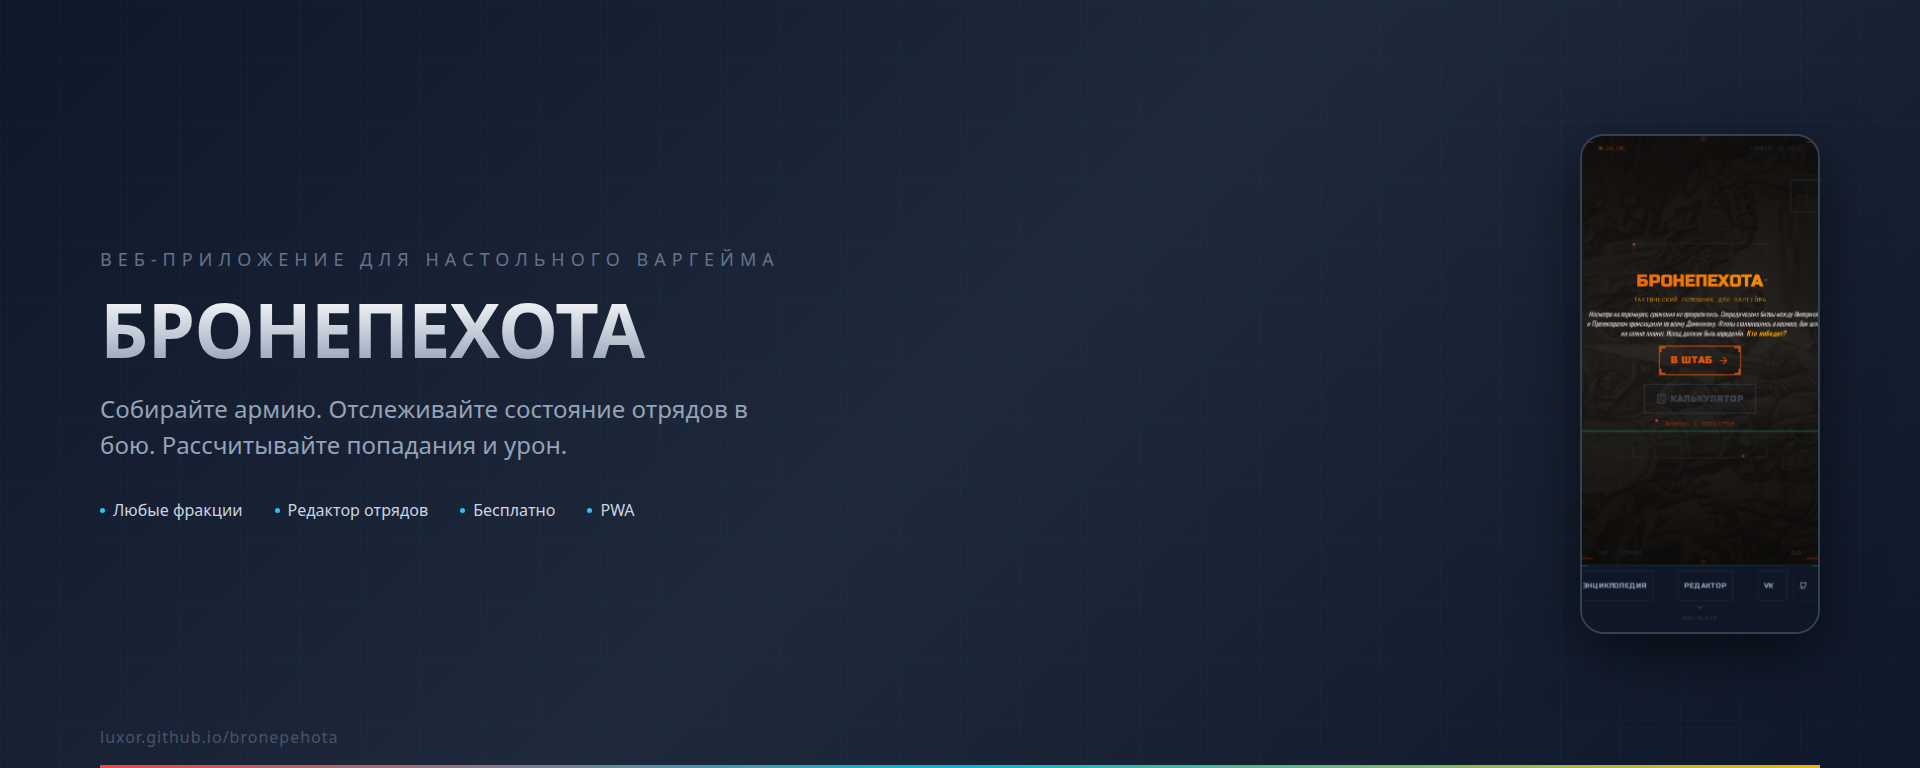
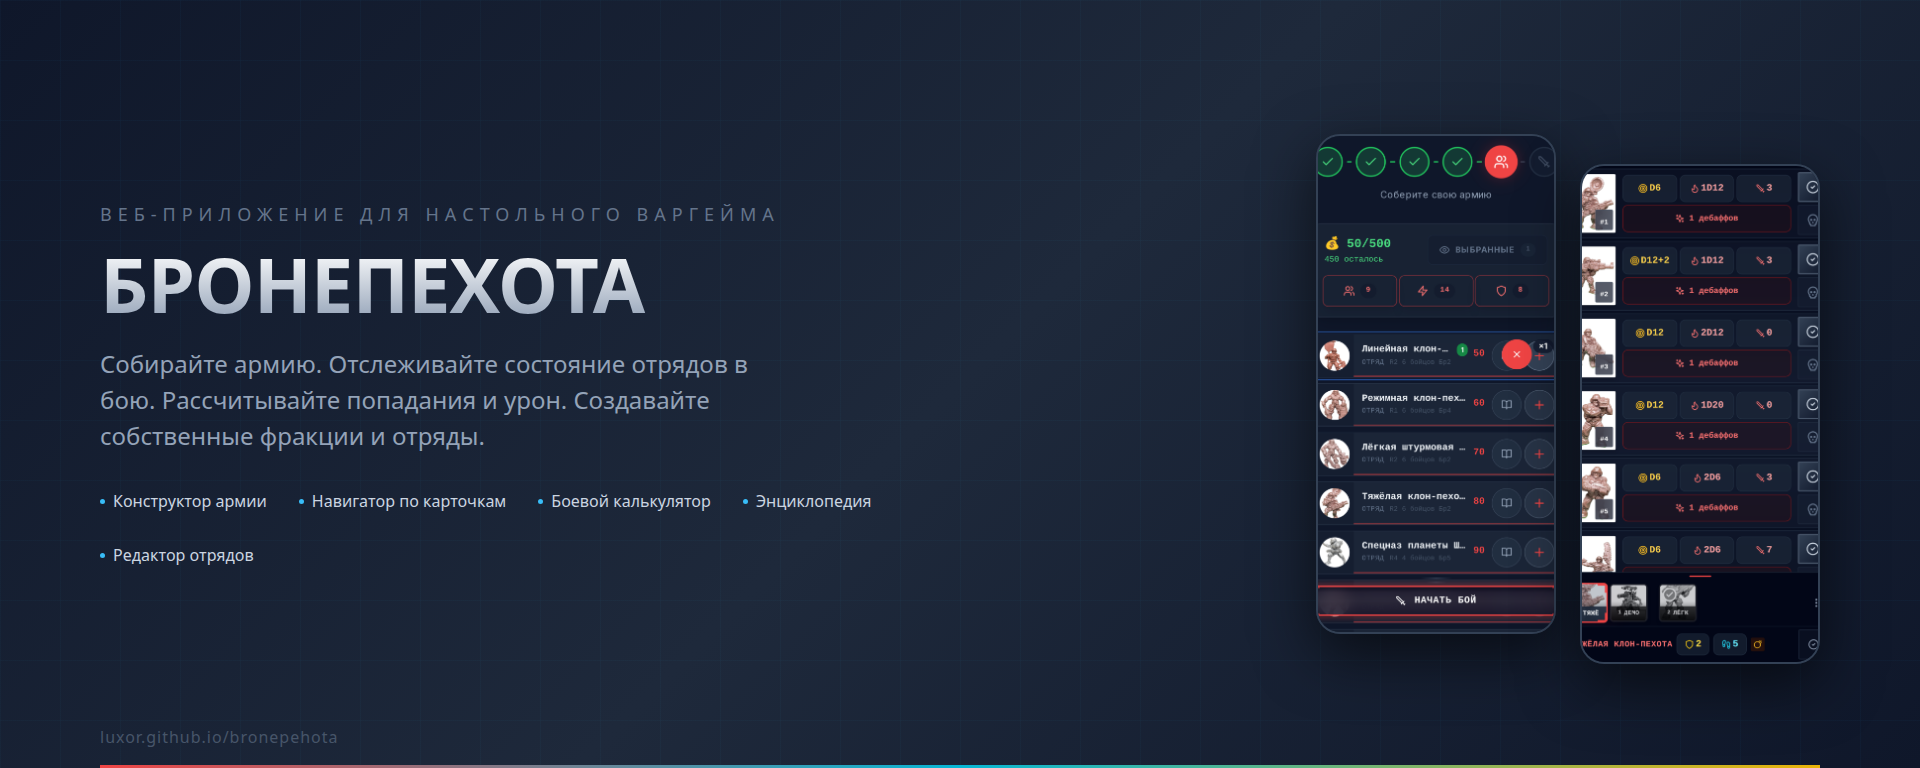
docs: enrich intro live cover with more text and dual phone mockups

diff --git a/scripts/take-promo-live-cover.ts b/scripts/take-promo-live-cover.ts
@@ -33,9 +33,10 @@ const slides: Slide[] = [
     file: 'live-01-intro.png',
     tagline: 'Веб-приложение для настольного варгейма',
     title: 'БРОНЕПЕХОТА',
-    description: 'Собирайте армию. Отслеживайте состояние отрядов в бою. Рассчитывайте попадания и урон.',
-    features: ['Любые фракции', 'Редактор отрядов', 'Бесплатно', 'PWA'],
-    phone1: '01-landing.png',
+    description: 'Собирайте армию. Отслеживайте состояние отрядов в бою. Рассчитывайте попадания и урон. Создавайте собственные фракции и отряды.',
+    features: ['Конструктор армии', 'Навигатор по карточкам', 'Боевой калькулятор', 'Энциклопедия', 'Редактор отрядов'],
+    phone1: '02-army.png',
+    phone2: '05-squad-card-battle.png',
   },
   {
     file: 'live-02-army.png',
